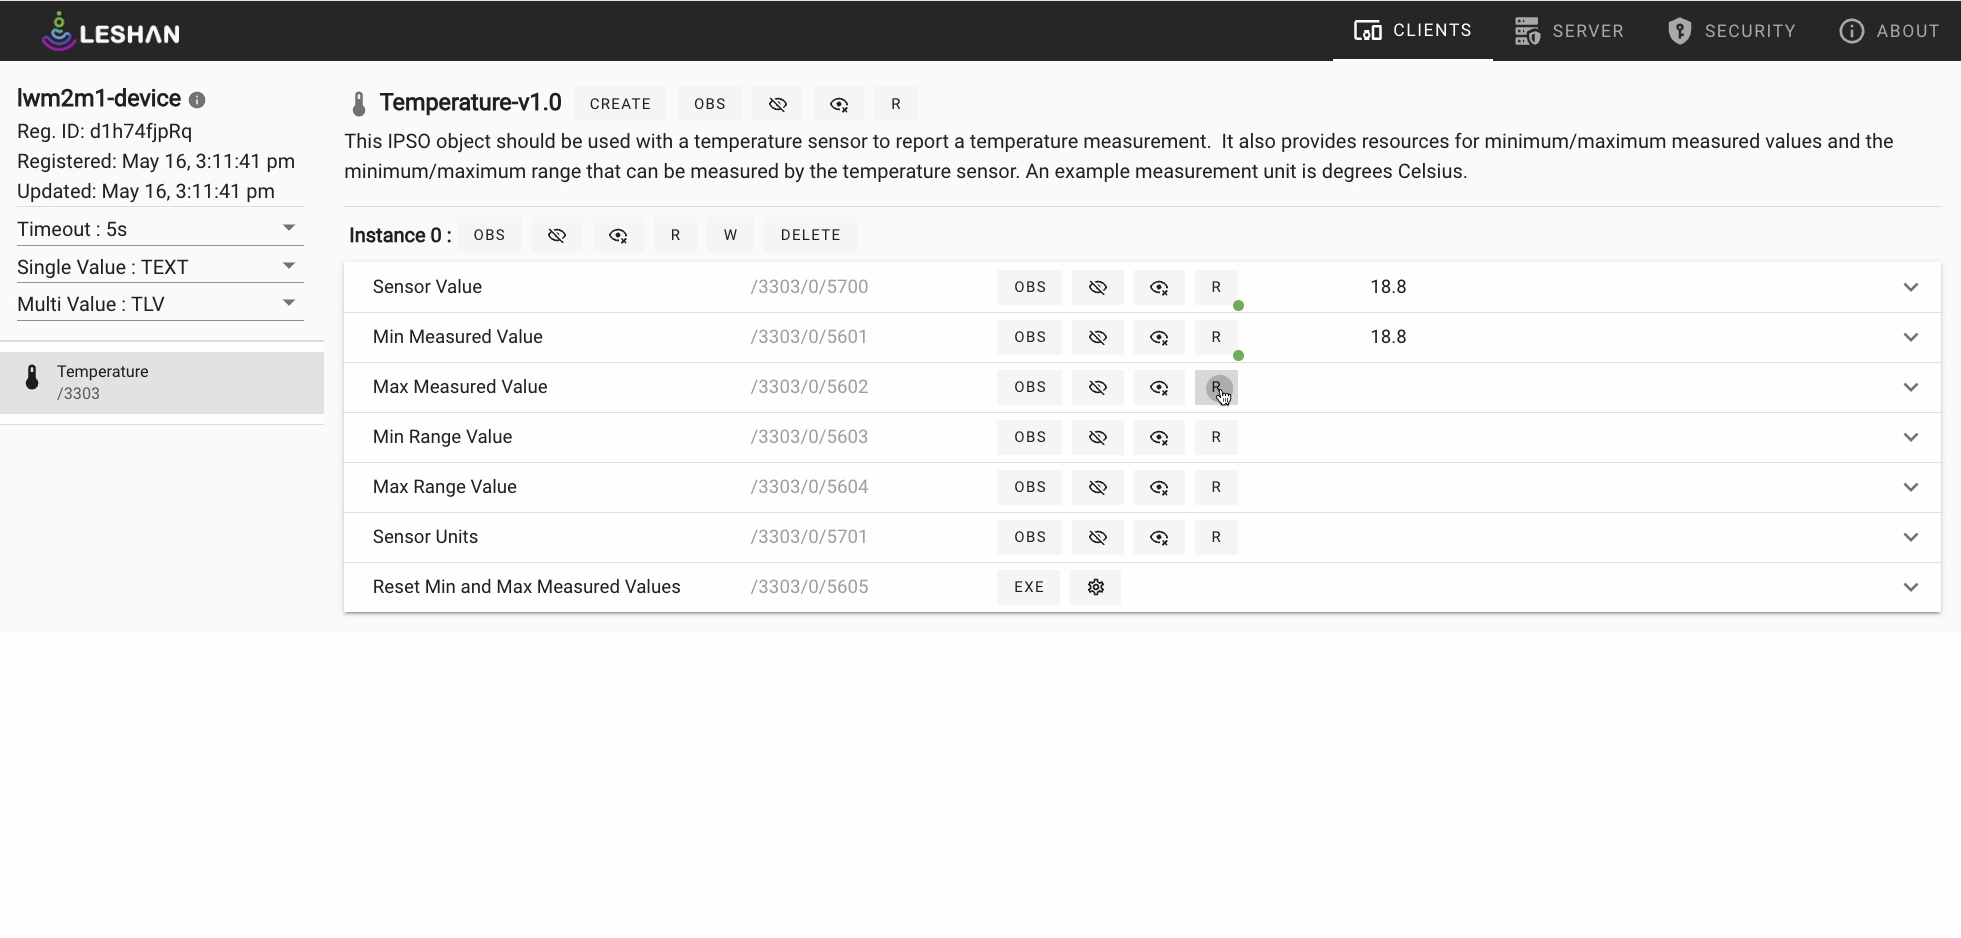
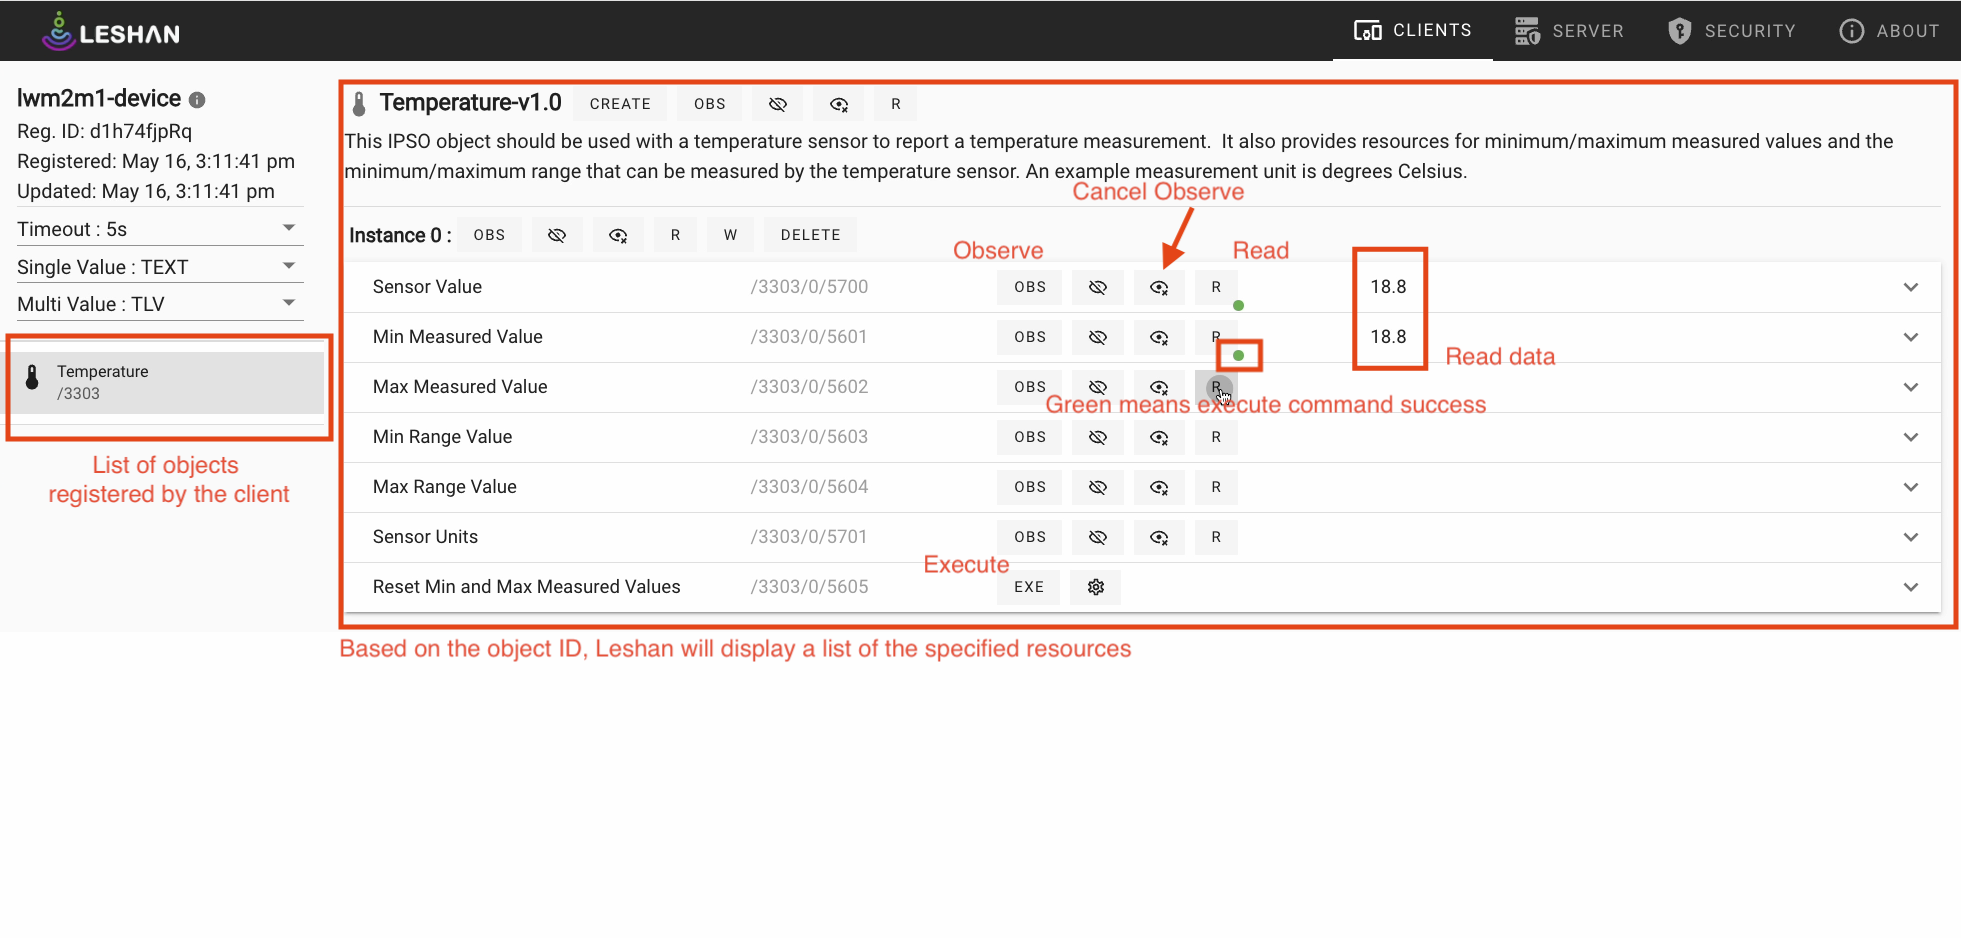
add security and add mark in photo

diff --git a/README.md b/README.md
@@ -8,6 +8,9 @@ All devices are connected to the LwM2M server.
 
 ![devices in LwM2M server](./images/leshan-server-demo.png)
 
+In LeShan server, we need to create a security object for each device, otherwise the device will connect to the server without security.
+
+![security information in LwM2M server](./images/leshan-server-demo-security.png)
 
 Can operate the devices in the LwM2M server.
 
